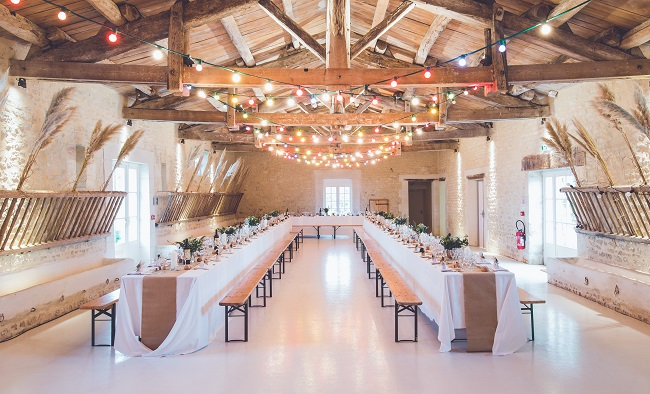
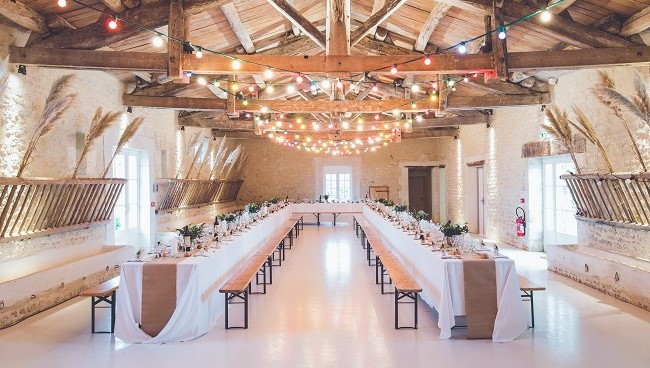
l14

diff --git a/assignments/lesson-12/services.html b/assignments/lesson-12/services.html
@@ -57,7 +57,7 @@
           <article class = "service">
                 <h3>Full-Time Temple Missionaries</h3>	
                 <p class="town-article">
-                <img src="images/Services.jpg" alt="article image">
+                <img src="images/suite.jpg" alt="article image">
                 </p>
         <div class="temple-info">
             <ul>

diff --git a/assignments/lesson-12/styles/large.css b/assignments/lesson-12/styles/large.css
@@ -49,6 +49,6 @@ article.townpages {
 
 .temple-info ul {max-width: 65%; margin:auto;}
 
-article.service {max-width: 70%}
+article.service {max-width: 65%;}
 
 }

diff --git a/assignments/lesson-12/styles/medium.css b/assignments/lesson-12/styles/medium.css
@@ -55,6 +55,6 @@ article.townpages {
 
   .temple-info ul {max-width: 50%}
 
-  article.service {max-width: 80%}
+  article.service {max-width: 75%}
 }
        
